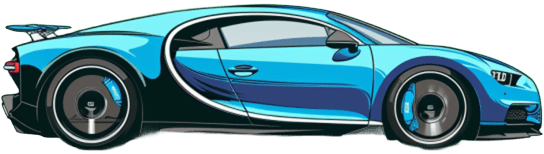
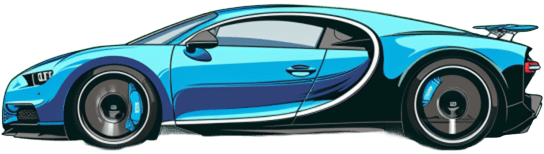
updates in the car part

diff --git a/src/components/ui/Cars.tsx b/src/components/ui/Cars.tsx
@@ -1,0 +1,46 @@
+import Image from 'next/image'
+import React from 'react'
+
+export const Cars = () => {
+    return (
+        < div className='flex w-full relative z-20' >
+            <Image
+                src={require("@/assets/scenary.webp")}
+                alt="greek town in andev page"
+                className='flex w-full z-20'
+            />
+            <div className='absolute w-full top-0 left-0 right-0 z-30'>
+                <Image
+                    src={require("@/assets/car-brabus900.png")}
+                    alt="Brabus Rocket 900"
+                    className='absolute w-[18rem] brabus900'
+                />
+                <Image
+                    src={require("@/assets/car-bugatti.png")}
+                    alt="Buguatti Chiron"
+                    className='absolute w-[17rem] bugatti'
+                />
+                <Image
+                    src={require("@/assets/car-gt3rs.png")}
+                    alt="Porsche 911 GT3 rs"
+                    className='absolute w-[16rem] gt3rs'
+                />
+                <Image
+                    src={require("@/assets/car-sandero.png")}
+                    alt="Renault Sandero"
+                    className='absolute w-[16rem] sandero'
+                />
+                <Image
+                    src={require("@/assets/car-x6m.png")}
+                    alt="Bmw X6M"
+                    className='absolute w-[21rem] x6m'
+                />
+                <Image
+                    src={require("@/assets/bike-ducati.png")}
+                    alt="Ducati streetfigther"
+                    className='absolute w-[11rem] ducati'
+                />
+            </div>
+        </div >
+    )
+}

diff --git a/src/app/globals.css b/src/app/globals.css
@@ -265,19 +265,56 @@
 }
 
 /* cars css */
-@keyframes carmove {
-  0% { transform: translateX(-30rem) translateY(-6rem) }
-  100% { transform: translateX(300vw) translateY(-6rem) }
+@keyframes ygt3rs {
+  0% { transform: translateX(5000px) }
+  100% { transform: translateX(-1000px) }
+}
+
+@keyframes yx6m {
+  0% { transform: translateX(5000px) translateY(2.2rem) }
+  100% { transform: translateX(-1000px) translateY(2.2rem) }
+}
+
+@keyframes ybugatti {
+  0% { transform: translateX(5000px) translateY(1rem) }
+  100% { transform: translateX(-1000px) translateY(1rem) }
+}
+
+@keyframes ysandero {
+  0% { transform: translateX(5000px) translateY(1.9rem) }
+  100% { transform: translateX(-1000px) translateY(1.9rem) }
+}
+
+@keyframes yducati {
+  0% { transform: translateX(5000px) translateY(3.5rem) }
+  100% { transform: translateX(-1000px) translateY(3.5rem) }
+}
+
+@keyframes yporsche {
+  0% { transform: translateX(5000px) translateY(1.5rem) }
+  100% { transform: translateX(-1000px) translateY(1.5rem) }
+}
+
+@keyframes ybrabus {
+  0% { transform: translateX(5000px) translateY(-2.5rem) }
+  100% { transform: translateX(-1000px) translateY(-2.5rem) }
 }
 
 .gt3rs {
-  animation: carmove 100s linear infinite;
+  animation: yporsche 5s linear infinite;
 }
-
 .brabus900 {
-  animation: carmove 5s linear infinite;
+  animation: ybrabus 7s linear infinite;
 }
-
 .x6m {
-  animation: carmove 100s linear infinite;
+  animation: yx6m 4s linear infinite;
+}
+.sandero {
+  animation: ysandero 3s linear infinite;
+}
+.bugatti {
+  animation: ybugatti 6s linear infinite;
+}
+.ducati {
+  animation: yducati 2s linear infinite;
 }

diff --git a/src/components/City.tsx b/src/components/City.tsx
@@ -2,6 +2,7 @@
 import { Press_Start_2P } from 'next/font/google';
 import Image from 'next/image';
 import React, { useEffect, useRef } from 'react';
+import { Cars } from './ui/Cars';
 
 const orbitron = Press_Start_2P({
   weight: ["400"],
@@ -81,11 +82,7 @@ export const City = () => {
           alt="greek town in andev page"
           className='flex w-full relative z-20'
         />
-        <Image
-          src={require("@/assets/scenary.webp")}
-          alt="greek town in andev page"
-          className='flex w-full relative z-20'
-        />
+        <Cars />
       </div>
 
       <div className='md:hidden flex flex-col items-center justify-center w-full'>
@@ -95,24 +92,7 @@ export const City = () => {
           alt="greek town in andev page"
           className='flex w-full relative z-20'
         />
-
-        {/* the cars scenary */}
-        <div className='flex w-full relative z-20'>
-          <Image
-            src={require("@/assets/scenary.webp")}
-            alt="greek town in andev page"
-            className='flex w-full z-20'
-          />
-          <div className='absolute w-full top-0 left-0 right-0 z-30'>
-            <Image
-              src={require("@/assets/car-brabus900.png")}
-              alt="brabus 900"
-              className='absolute w-[20rem] brabus900'
-            />
-          </div>
-
-        </div>
-
+        <Cars />
 
       </div>
 
